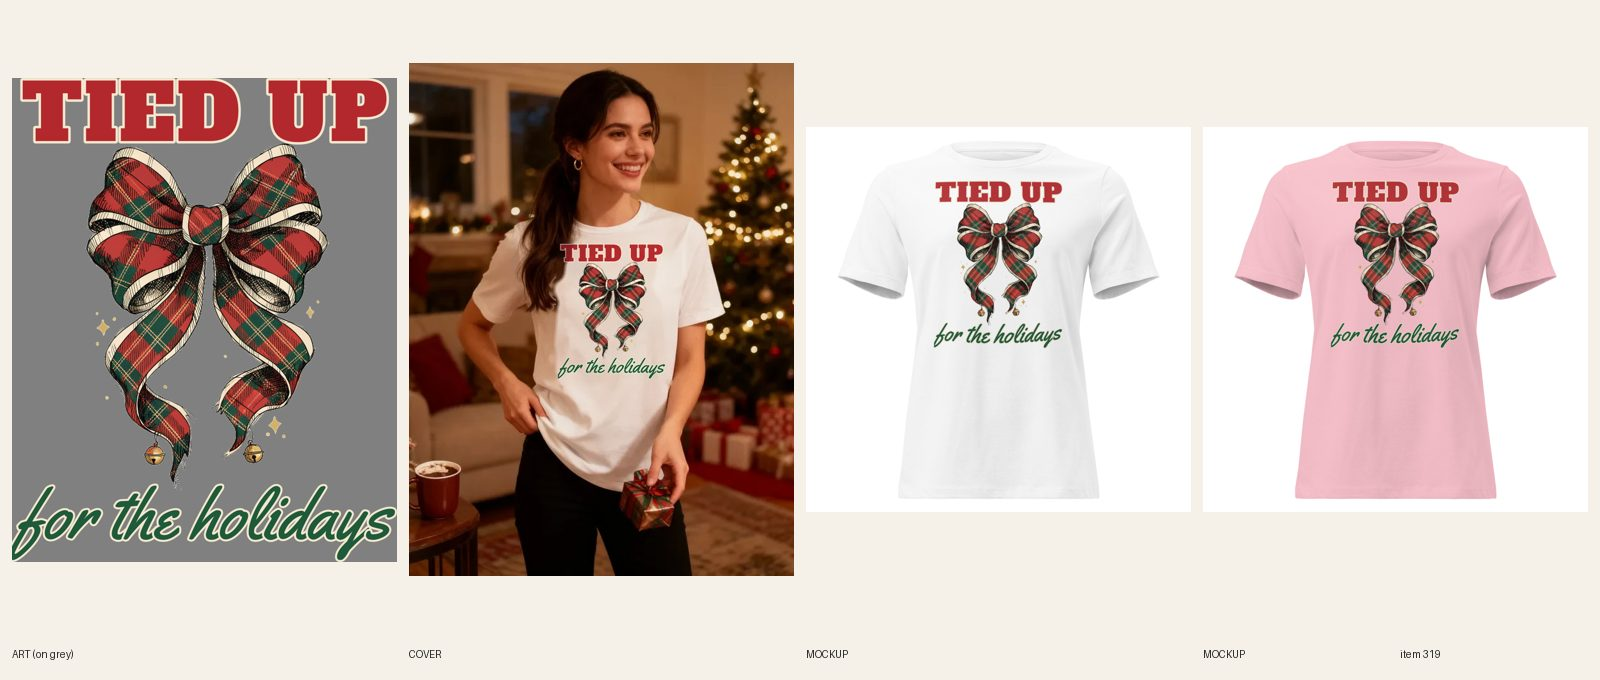
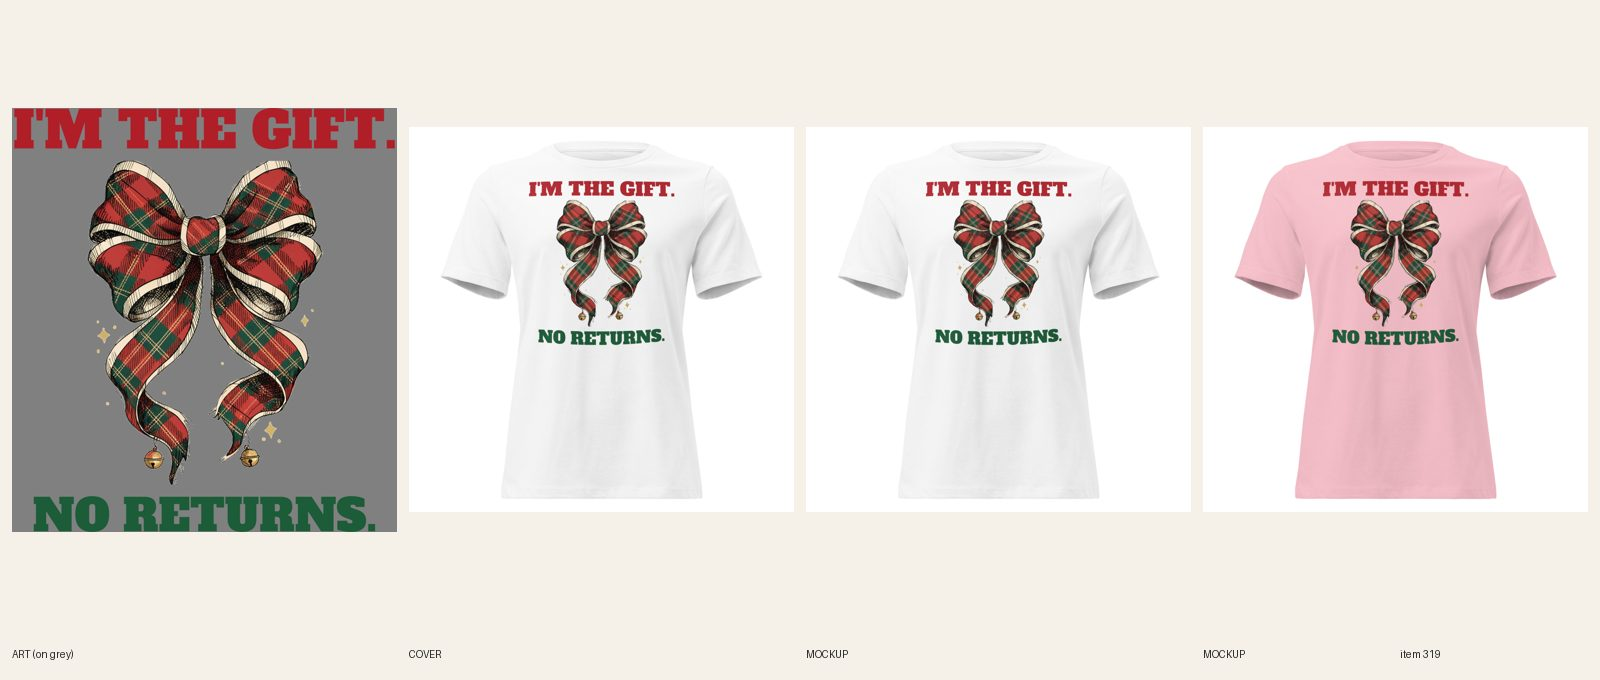
[A] review 319 I'm the Gift bow tee (line+type redo)
Claude-Session: https://claude.ai/code/session_01LaaEYpKaSBZd9opL7Tpo7i

Changed region(s): [[0.0, 0.0926, 0.5, 0.8647], [0.5625, 0.2471, 0.6875, 0.525], [0.8125, 0.2471, 0.9062, 0.525]]

diff --git a/docs/pipeline/319-christmas-tied-up-for-the-holidays.md b/docs/pipeline/319-christmas-tied-up-for-the-holidays.md
@@ -1,4 +1,4 @@
-status: BUILDING [A] 2026-10-20 05:21 UTC
+status: REVIEW
 lane: A
 type: twin
 id: 319
@@ -24,3 +24,4 @@ kd: 59
 - 2026-10-18 03:31 UTC builder [A]: BUILT. Twin of #318 (LIVE): R6.2 check on the source print (Printful file 1088533038): TIED UP in Alfa Slab (red, cream outline) and 'for the holidays' in Yellowtail script (green) are real fonts (R4.8); tartan bow with worn edges, no ring, arch, disc, box or panel; reused as is (re-hosted as file 1088626473, 3447x4330). The 6400 front print area is 1500x1800 px, so this tall print is FW 1360 (the first mockup at FW 1650 clipped 'for the holidays'; caught and redone), 30/30 variants linked, back logo kept. NEW Shopify DRAFT (gid 15364430987568, BC 6400, White/Natural/Heather Stone/Athletic Heather/Pink x S-3XL, $24.99 no compare-at, category tees, tags christmas-shirts + christmas-shirts-for-women + graphic-tees-for-women + funny-graphic-tees): 'bow shirt' in line one, SEO title and meta ('christmas bow shirt' avoided, it belongs to Lit Up Bow), FAQs 5 x 48-51 words incl. order-by Dec 8. Mockups for all 5 colors + back, each color on its own photo. Cover (reg #503 face not used; generated look logged): seedream 1 attempt put the ponytail over the T, so the exact print from the mockup was composited on the chest (R6.9) and every word read; nothing over the print. fal ~$0.06. Audit script not runnable on drafts here; astro build passes.
 - 2026-10-18 04:20 UTC director: LIVE. Twin of #318; tartan bow is art, lettering solid ink (R5.3.10 OK). Added funny-christmas-shirts. ACTIVE, published. Audit PASS.
 - 2026-10-18 17:22 UTC director: QUALITY RESET grade C (new line + type), REDO. The product stays ACTIVE (same handle, URL, title keyword). 1. Line (R3.12, quality-reset 'Lines'): "TIED UP / for the holidays": Mild bow pun describing art; also thin script below. Write 5 candidates, keep the one a stranger laughs at in 3 seconds without backstory; kill lines that only describe the picture; if none of the 5 is funny, PARK it. 2. Quality reset type bar (docs/backlog/quality-reset.md, 'The new bar'): headline at least 90% of the art width, heavy, colors pulled from the art; second line at least 45% of the headline's height, never a thin script on a dark or mid garment; use the lettering as a shape (arch, stacked lockup, words breaking into the art), not a plain bar above and a script line below; no font used on more than 1 in 6 of the last 30 designs. 3. Keep the art if it carries the new line, else one new illustration (R4/R5). New print means a new cover per R6.10, copy line one rewritten for the new joke (R8.3), and a fresh review sheet (R7.7). While quality-reset.md says PAUSED, only lane A builds, and only the samples step 2 names.
+- 2026-10-20 05:44 UTC builder [A]: REDO grade C done (new line + type). Line: I'M THE GIFT. / NO RETURNS. (5 candidates; the gift-with-a-bow joke kept; title and handle unchanged). Same tartan bow art (old TIED UP and script lines cropped off, 3447x2980), Alfa Slab One both lines (3262 / 2927 px, second 87% of headline height), red + pine green from the bow, lockup 3300x3630, FW 1500 TOP 75 (tee area 1500x1800, print 1650 tall). One dark-ink file on all five light colors (no cream fill): 1090185051. Back logo 1080398177 kept. Relinked 30/30 verified. 5 fronts replaced in place (fileUpdate, alts updated), phone-size read ok. Copy: Story line one, lettering sentence, color FAQ and wash FAQ updated; SEO title/meta updated; 5 FAQs, Dec 8 kept; no R8.3 opener. Cover: handle added to retired-covers.json (plain product shot). fal $0. audit --handle PASS; astro build ok. Sheet docs/review/319.jpg.

diff --git a/docs/intake-log.md b/docs/intake-log.md
@@ -4,6 +4,7 @@ RUNNING lane C since 2026-10-20 05:30 UTC
 2026-10-20 05:41 UTC — [C] Builder run: redid #506 Men's Golf retired zip hoodie (new line + type: CLOCKED OUT. / TEED UP., Bowlby One + Alfa Slab, same backyard art, Ash file 1090187094 + Navy file 1090187130, BW 1650 BT 225, 12/12 relinked, 2 back mockups replaced in place, copy + SEO updated, plain product shot). REVIEW. fal $0.
 RUNNING lane E since 2026-10-20 05:16 UTC
 2026-10-20 05:32 UTC — [E] Builder run: redid #388 Women's Christmas crewneck again (every calendar day box now filled: cream square, red X, so it reads booked; line kept SORRY, I'M BOOKED / TILL JANUARY.; Navy + Sand files, 12/12 synced). REVIEW. fal $0.
+2026-10-20 05:44 UTC — [A] Builder run: redid #319 Women's Christmas Tied Up for the Holidays tee (line+type: I'M THE GIFT. / NO RETURNS., same tartan bow art, Alfa Slab full width, file 1090185051, 30/30 relinked, 5 fronts replaced in place, copy updated, plain product shot). REVIEW. fal $0.
 2026-10-20 05:16 UTC — [D] Director run (RESUMED). LIVE 6 (cap): #649 #205 #217 #219 #326 #356 (approved earlier and held; #649 set ACTIVE + published on Online Store, Headless, Google & YouTube; audit --handle PASS 0 warn each). Reviewed 20 new redo sheets side by side with 493 and 483: approved and held 10 (#382 #459 #499 #503 #514 #533 #563 #620 #622 #637); REDO 10: #280 #318 #380 #396 #513 #519 (joke line narrower than headline, R3.7.8, 10th hit in two runs: added builder card 7h, log both widths), #257 #258 (R3.13 template line), #448 #495 (R3.1 sound-alike puns). Inbox: nothing new since the Black Friday note (Sam already asked about the deal and set discount). READY: A 13, B 12, C 17, E 12, no new briefs needed. No Telegram (digest not due, nothing new for Sam). Held next, in order: #358 #650, then the 15 from 04:16, then the 10 above, then the 31 add-ons. Lock released.
 2026-10-20 05:24 UTC — [E] Builder run: redid #366 Women's Beach hoodie again (new line NOT CRABBY. / JUST OFF THE CLOCK., second line at full headline width, same crab art, Fraunces; Navy + Dust light file, 12/12 synced). REVIEW. fal $0.
 RUNNING director since 2026-10-20 05:13 UTC
